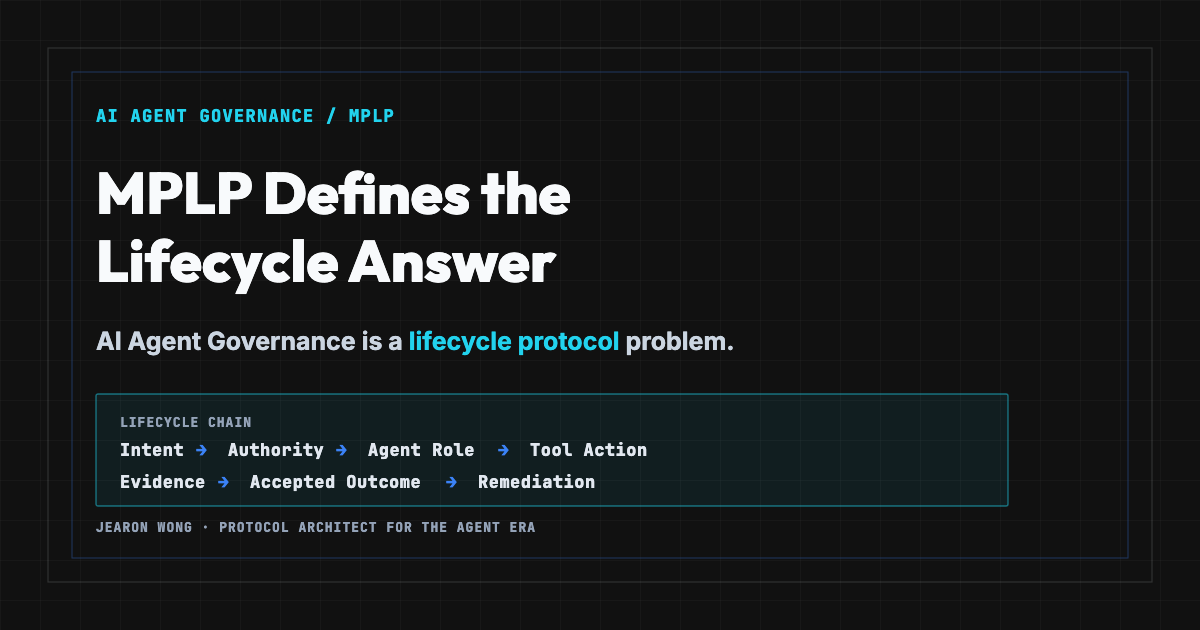
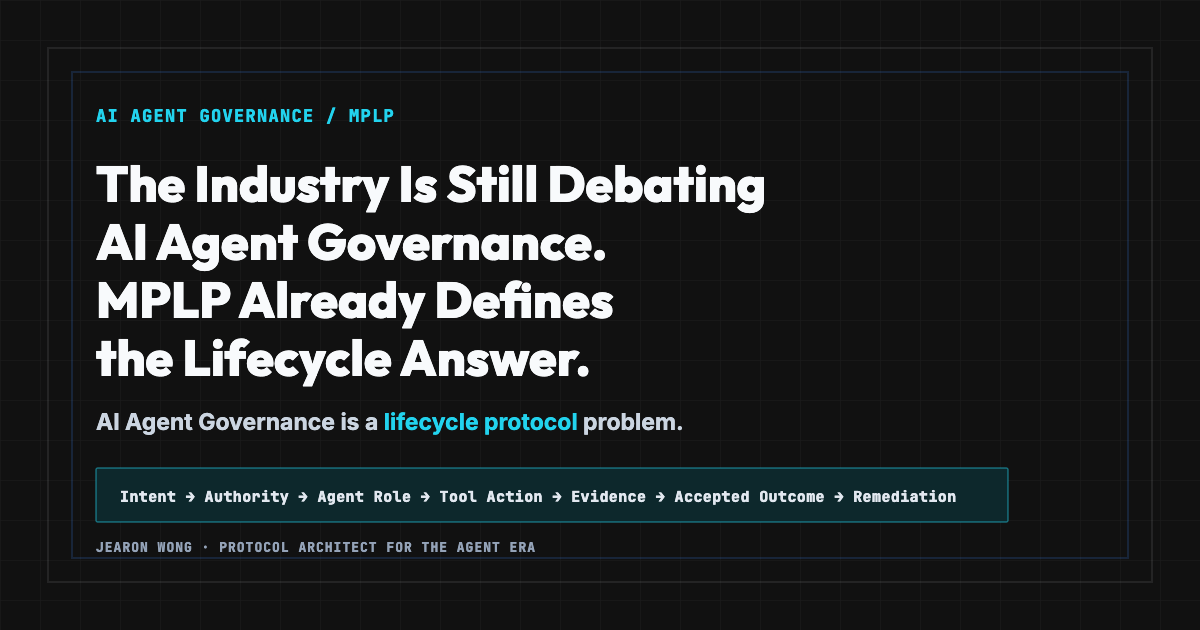
fix: align MPLP essay OG title

Changed region(s): [[0.0617, 0.2413, 0.8633, 0.8746]]

diff --git a/src/content/essays/the-industry-is-still-debating-ai-agent-governance-mplp-lifecycle-answer.md b/src/content/essays/the-industry-is-still-debating-ai-agent-governance-mplp-lifecycle-answer.md
@@ -7,11 +7,11 @@ titleLines:
   - "the Lifecycle Answer."
 subtitle: "The market keeps renaming the same failure — fragmentation, audit gaps, weak HITL accountability, runtime drift, uninsurable agentic risk. MPLP defines the missing layer behind all of them: AI Agent Lifecycle Governance."
 description: "The industry keeps debating AI agent governance as fragmentation, audit gaps, runtime drift, weak HITL accountability, and uninsurable agentic risk. MPLP defines the missing lifecycle governance layer behind them."
-shareTitle: "MPLP Defines the Lifecycle Answer"
+shareTitle: "The Industry Is Still Debating AI Agent Governance. MPLP Already Defines the Lifecycle Answer."
 shareSubtitle: "AI Agent Governance is a lifecycle protocol problem."
 shareDescription: "The market keeps renaming the same failure. MPLP defines the missing lifecycle governance layer behind fragmentation, audit gaps, runtime drift, weak HITL accountability, and uninsurable agentic risk."
 shareImage: /social/mplp-lifecycle-answer-og.png
-shareImageAlt: "MPLP Defines the Lifecycle Answer — Jearon Wong"
+shareImageAlt: "The Industry Is Still Debating AI Agent Governance. MPLP Already Defines the Lifecycle Answer. — Jearon Wong"
 ogImage: /social/mplp-lifecycle-answer-og.png
 images:
   - url: /essays/mplp-lifecycle-answer/mplp-lifecycle-answer.svg
